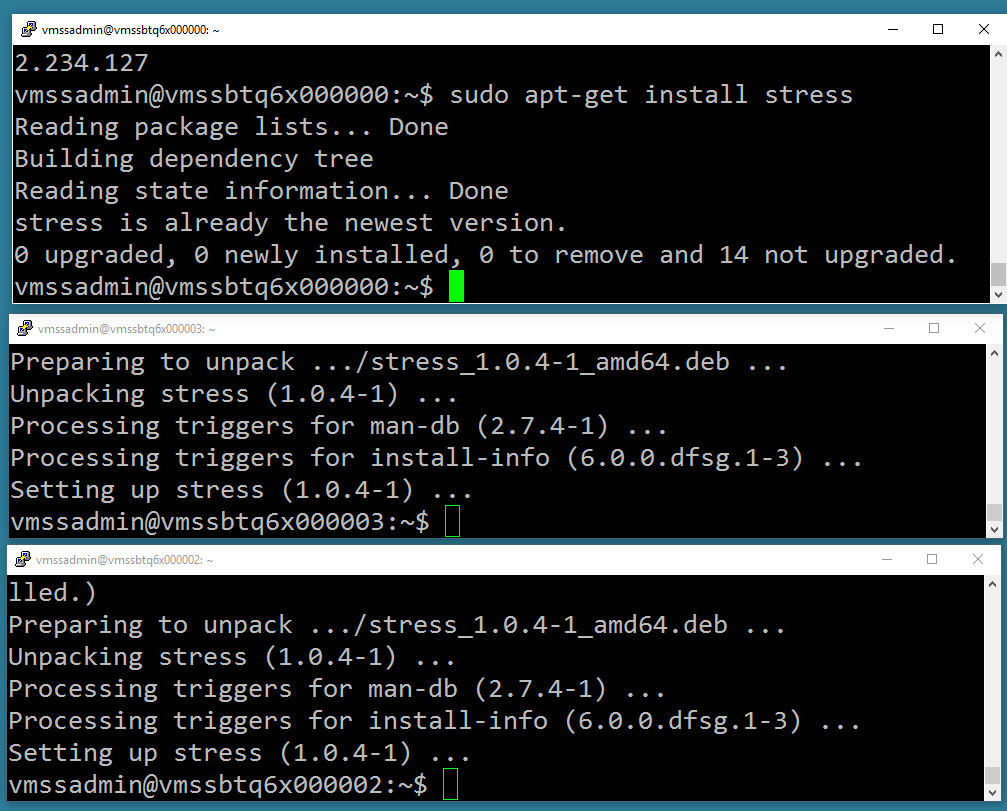
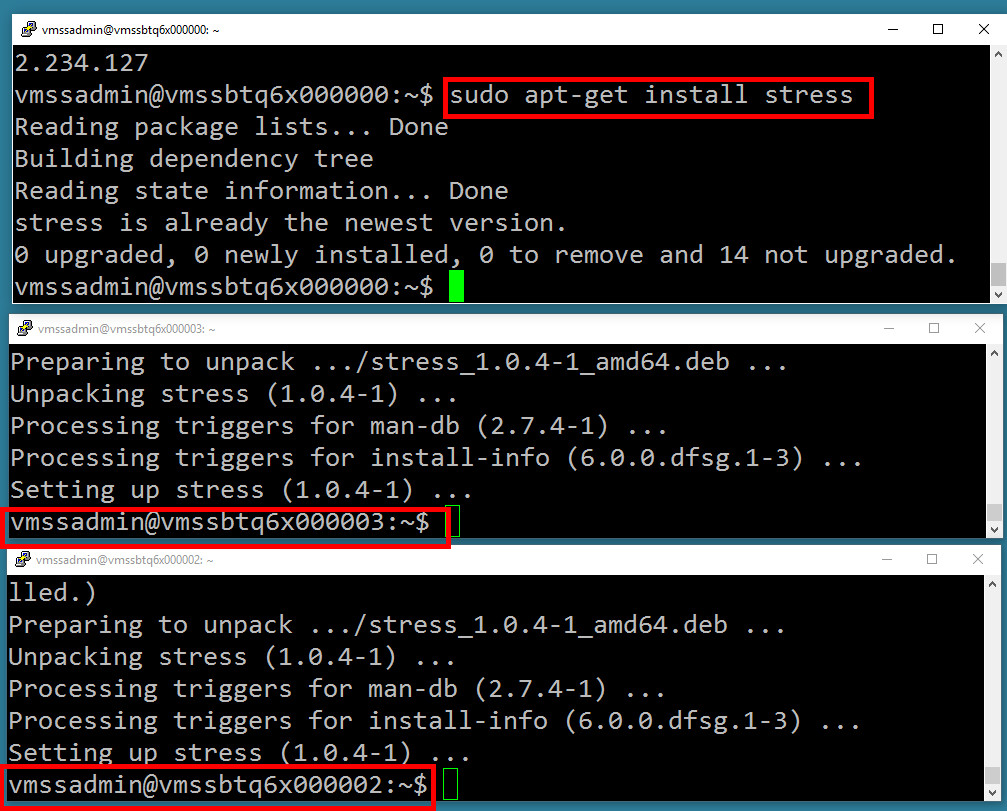
first commit

Changed region(s): [[0.431, 0.0925, 0.8928, 0.1541], [0.0, 0.6165, 0.4618, 0.6782], [0.0, 0.9248, 0.431, 1.0]]

diff --git a/README.md b/README.md
@@ -260,7 +260,6 @@ Note below that we are executing the **azure group create** command. It passed t
 
 _Figure 19:  Executing the deployment_
 
-
 Notice the things that we walk through previously within the template have now been made reality:
 
 - Virtual machine scale set
@@ -288,46 +287,96 @@ There is utility called **stress** that makes this easy.
 
 So we will use the command below to remote and so that we can install this utility.
 
+Because we will need to stress the tool on each individual VM, we will remote into each of our three VM's that are in the scale set.
+
+There was a little voodoo pick in the right port. For some reason 50001 was not a valid host. So I skipped to 50003 and it seemed to work.
+
+Once remote did in the next step is to go in and run the stress tool. Remember when you talk about percent CPU utilization you are talking about the average of all the nodes in your cluster, not anyone machine. This makes sense, of course.
 
 ![](./images/image0079.jpg)
 
-_Figure 100:  x_
+_Figure 22:  Remoting in and using the appropriate number_
 
-![](./images/image0082.jpg)
+Well, it turns out that **stress** is not available by default in **Ubuntu**.
 
-_Figure 100:  x_
+So let's install the stress utility.
 
-![](./images/image0085.jpg)
+###Stressing the VMs in the scale set
 
-_Figure 101:  x_
+- **Step 1 -** SSH into each of the three VM's and the scale set
+- **Step 2 -** Install stress
+- **Step 3 -** Run stress
+- **Step 4 -** Run top
 
-![](./images/image0088.jpg)
+This next section will discuss or explain the upcoming images that follow this narrative.
 
-_Figure 102:  x_
+#### Step 1 of 4 - SSH into each of the three VM's and the scale set
 
-![](./images/image0091.jpg)
+We will need to be logged into each of the VM's and the scale set so that we could install stress and run it.
 
-_Figure 103:  x_
+#### Step 2 of 4 - Install stress
 
-![](./images/image0094.jpg)
+Stress is the utility that will max out your CPU so that you can trigger a scale event.
 
-_Figure 104:  x_
+````bash
+sudo apt-get install stress
+````
 
+#### Step 3 of 4 - Run stress
 
-
+We will run it as follows with the following parameters:
 
 ````bash
 stress --cpu 8 --io 4 -c 12 --vm 2 --vm-bytes 128M --timeout 800s &
 ````
 
+#### Step 4 of 4 - Run top
 
+Top gives us a nice depiction of CPU utilization so we can verify that it is high enough to trigger a scale event.
 
+````bash
+top
+````
 
+![](./images/image0082.jpg)
 
+_Figure 23:  We are SSH'd into each of the VM's and the scale set_
+
+![](./images/image0085.jpg)
+
+_Figure 24:  Installing Stress (sounds funny)_
+
+![](./images/image0088.jpg)
+
+_Figure 25:  Remember to install it on all of the VM's and the scale set_
+
+![](./images/image0091.jpg)
+
+_Figure 26:  Verifying %CPU Utilization_
+
+**Some key points.**
+
+- Scale out is based on average CPU across the scale set. 
+- You can scale up too (More CPU, Memory, Storage)
+- The whole cycle can take 20 minutes for all the magic to happen (VMs provisioned, de-provisioned, etc)
+- Insights pipeline needs to be initiated (e.g. create storage account, start sending data, initialize Insights engine etc.)
+- After the first scale event, you can expect scale events to take 5-10 minutes depending on timing (5 minute sampling plus time to start VM etc)
+
+![](./images/image0094.jpg)
+
+_Figure 27:  Make sure you wait_
+
+## Success - VMs in scale set provisioned
+
+This is actually exactly what we were looking for. Notice that two additional VM's got brought online to accommodate and compensate for the massive spike in CPU utilization. If you think about it, three virtual machines running at 80% utilization need to be at 40% minimum, given the sudden and massive spike. So the question becomes what number of additional VM's are needed to bring down the CPU to a reasonable level. I like that Azure brought 2 VM's online, not just one. Feels like a safer but prudent reaction to CPU spikes.
+`
+I will conclude this post right here but there is more to talk about. I encourage everybody to go simply do some searching around the web for guidance around Azure scale sets.
+
+![](./images/image0100.jpg)
+
+_Figure 28:  the moment we have been waiting for_
 
 ## Conclusion
 
-This brief walk-through has taken you from beginning to and, allowing you to see how a scale set is constructed, how to set up some metrics to trigger scale up and scaled-down events. In addition, we leverage some tooling to actually see this take place.
+This brief walk-through has taken you from beginning to and, allowing you to see how a scale set is constructed, how to set up some metrics to trigger scale up and scaled-down events. this post took you through a detailed walk-through all the way to the point of validating that skill sets work and that additional VM's can be brought online in the event of high CPU utilization across the cluster.
 
-
-ssh -p 50000 vmssadmin@23.101.193.32
